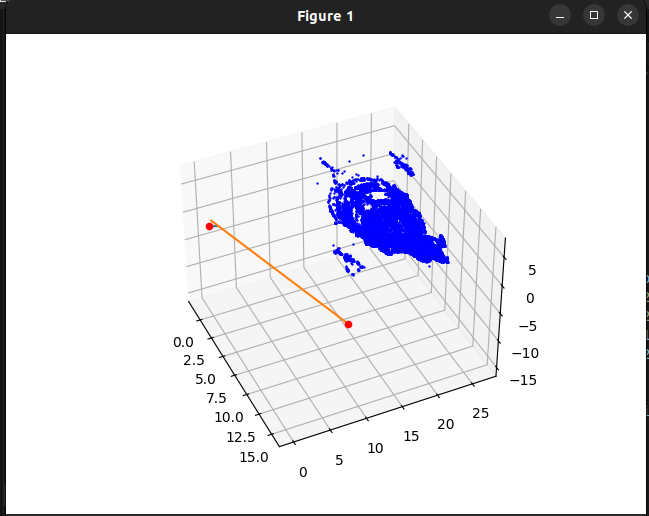
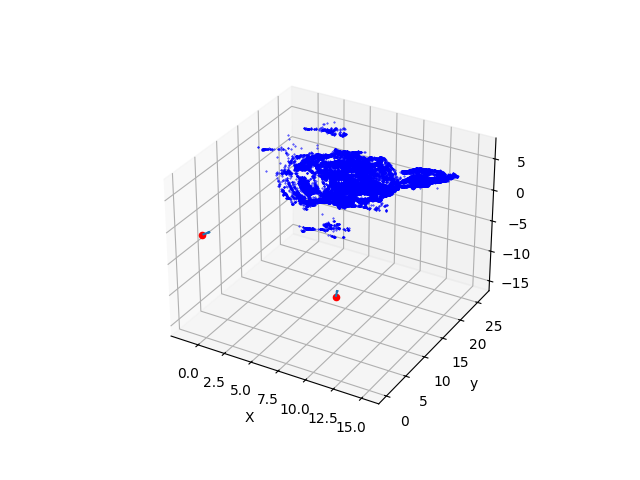
Assignment 1 fixed feedback

diff --git a/assignment1/solution/ce4.py b/assignment1/solution/ce4.py
@@ -35,32 +35,35 @@ fU = pflat(U)
 U1 = pflat(np.matmul(P1, U))
 U2 = pflat(np.matmul(P2, U))
 
-print(P1)
-
 def plotp(coord):
     [xl, yl] = coord
     for i in range(0, len(xl)):
+        print(i)
         plt.scatter(xl[i], yl[i], s=0.1, c='b')
 
-plt.imshow(image1, cmap='gray')
-plotp((U2[0], U2[1]))
+#plt.imshow(image2, cmap='gray')
+#plotp((U2[0], U2[1]))
 
 
 def plot3d():
     cc1 = [e[0] for e in P1np]
-    cc2 = [e[0] for e in P2np]
+    cc2 = [e[0] for e in P2np][:3]
     pa1 = P1[2][0:3]
     pa2 = P2[2][0:3]
+    print(P1)
     
     fig3d = plt.figure()
     sp3d = fig3d.add_subplot(projection='3d')
     sp3d.scatter(cc1[0], cc1[1], cc1[2], c='r')
     sp3d.scatter(cc2[0], cc2[1], cc2[2], c='r')
-    sp3d.plot3D([cc1[0], pa1[0]], [cc1[1], pa1[1]], [cc1[2], pa1[2]])
-    sp3d.plot3D([cc2[0], pa2[0]], [cc2[1], pa2[1]], [cc2[2], pa2[2]])
+    sp3d.quiver(cc1[0], cc1[1], cc1[2], pa1[0], pa1[1], pa1[2])
+    sp3d.quiver(cc2[0], cc2[1], cc2[2], pa2[0], pa2[1], pa2[2])
+    sp3d.set_xlabel("X")
+    sp3d.set_ylabel("y")
     for i in range(0, len(fU[0])):
+        print(i)
         sp3d.scatter(fU[0][i], fU[1][i], fU[2][i], s=0.15, c='b')
     
-#plot3d()    
+    plt.show()
+plot3d()    
 
-plt.show()
